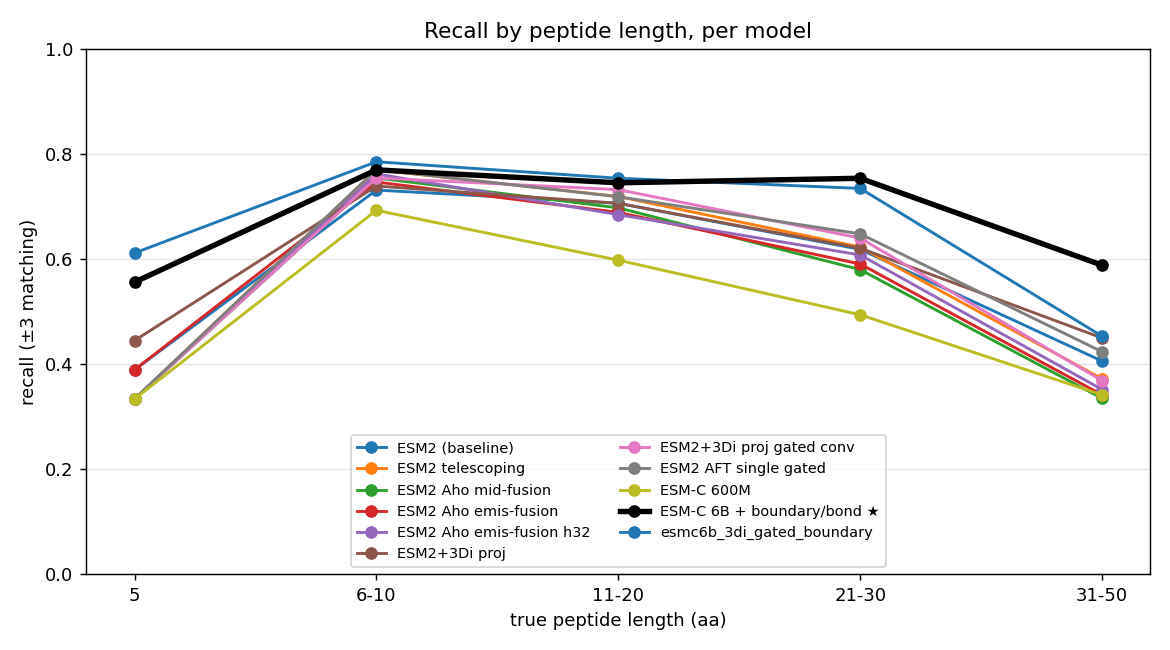
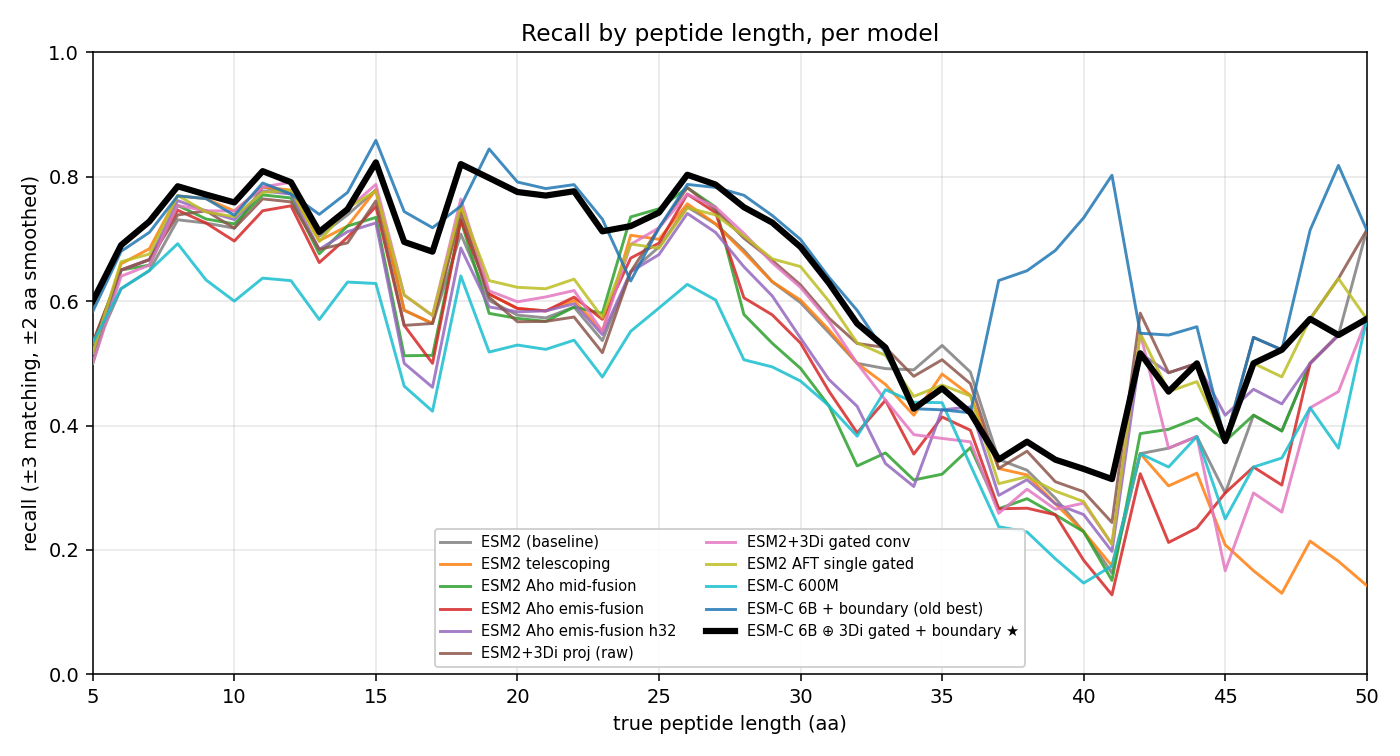
Fill new±3 for the 4 N/A runs; add 3Di winner to sweep; redo recall figures
- corrected_metrics now covers the 4 previously-N/A runs (boundary_only, w3, lora_r4,
  3di_only — re-inferred; these load online ESM so were skipped before). Big table new±3
  no longer N/A for them.
- threshold_sweep includes esmc6b_3di_gated_boundary: it leads at EVERY window and most
  at the TIGHT ones (all@w0 0.519 vs old winner 0.462; propep@w0 0.458 vs 0.368) — 3Di
  sharpens cleavage localization, not just detection. reconcile |Δ|=0.
- recall-by-length figures redone: NEW winner (3Di) is the bold black line (was the old
  boundary winner); per-integer length 5-50 with ±2 smoothing (matches the stacked plot);
  distinct qualitative palette (no more two-blues clash; old winner now blue).

Changed region(s): [[0.0, 0.0308, 0.9846, 0.9846]]

diff --git a/analysis/errors/src/plot_recall_by_length_models.py b/analysis/errors/src/plot_recall_by_length_models.py
@@ -27,7 +27,7 @@ FIG = ROOT / "texs" / "error_analysis" / "figures"
 FIG.mkdir(parents=True, exist_ok=True)
 
 LEN_LABELS = ["5", "6-10", "11-20", "21-30", "31-50"]
-BINS = {"5": (5, 5), "6-10": (6, 10), "11-20": (11, 20), "21-30": (21, 30), "31-50": (31, 50)}
+LMIN, LMAX, WIN = 5, 50, 2  # per-integer length range + ±WIN smoothing (as in the stacked plot)
 
 # Short display labels; runs without an entry fall back to the folder name.
 LABELS = {
@@ -36,28 +36,49 @@ LABELS = {
     "esm2_aho_mid_fusion_raw_m64": "ESM2 Aho mid-fusion",
     "esm2_aho_emission_fusion": "ESM2 Aho emis-fusion",
     "esm2_aho_emission_fusion_h32": "ESM2 Aho emis-fusion h32",
-    "train_run_esm2+3di_proj": "ESM2+3Di proj",
-    "train_run_esm2+3di_proj_gated_conv": "ESM2+3Di proj gated conv",
+    "train_run_esm2+3di_proj": "ESM2+3Di proj (raw)",
+    "train_run_esm2+3di_proj_gated_conv": "ESM2+3Di gated conv",
     "train_run_esm2_aft_single_gated": "ESM2 AFT single gated",
     "train_run_esmc_600m": "ESM-C 600M",
-    "esmc6b_boundary_bond": "ESM-C 6B + boundary/bond ★",
+    "esmc6b_boundary_bond": "ESM-C 6B + boundary (old best)",
+    "esmc6b_3di_gated_boundary": "ESM-C 6B ⊕ 3Di gated + boundary ★",
 }
-# Draw winner (if present) bold/on top; keep a stable order for the rest.
+WINNER = "esmc6b_3di_gated_boundary"   # the NEW best — drawn bold black
+# Draw winner last/on top; keep a stable order for the rest.
 ORDER = list(LABELS.keys())
 
+# Distinct qualitative colors (tab20-ish), explicitly avoiding two similar blues.
+PALETTE = {
+    "train_run_esm2": "#7f7f7f",                       # grey baseline
+    "esm2_telescoping_segmental": "#ff7f0e",           # orange
+    "esm2_aho_mid_fusion_raw_m64": "#2ca02c",          # green
+    "esm2_aho_emission_fusion": "#d62728",             # red
+    "esm2_aho_emission_fusion_h32": "#9467bd",         # purple
+    "train_run_esm2+3di_proj": "#8c564b",              # brown
+    "train_run_esm2+3di_proj_gated_conv": "#e377c2",   # pink
+    "train_run_esm2_aft_single_gated": "#bcbd22",      # olive
+    "train_run_esmc_600m": "#17becf",                  # cyan
+    "esmc6b_boundary_bond": "#1f77b4",                 # blue (old best)
+}
 
-def lenbin(L):
-    for lab, (lo, hi) in BINS.items():
-        if lo <= L <= hi:
-            return lab
-    return None
 
-
-def recall_by_bin(df, task):
-    t = df[(df["kind"] == "true") & (df["task"] == task)].copy()
-    t["lenbin"] = t["length"].apply(lenbin)
-    return [t[t["lenbin"] == lab]["matched"].mean() if len(t[t["lenbin"] == lab]) else np.nan
-            for lab in LEN_LABELS]
+def recall_smoothed(df, task):
+    """Per-integer recall over lengths 5..50, count-weighted ±WIN smoothing
+    (same convention as the stacked plot): recall(L) = Σmatched[L-WIN..L+WIN]/Σn[..].
+    Returns (xs, recall array, total-n array)."""
+    t = df[(df["kind"] == "true") & (df["task"] == task)]
+    xs = np.arange(LMIN, LMAX + 1)
+    matched = np.zeros(len(xs)); n = np.zeros(len(xs))
+    for k, L in enumerate(xs):
+        sub = t[t["length"] == L]
+        n[k] = len(sub); matched[k] = sub["matched"].sum()
+    rec = np.full(len(xs), np.nan)
+    for k in range(len(xs)):
+        lo, hi = max(0, k - WIN), min(len(xs), k + WIN + 1)
+        tot = n[lo:hi].sum()
+        if tot > 0:
+            rec[k] = matched[lo:hi].sum() / tot
+    return xs, rec, n
 
 
 # task -> (output filename, title noun)
@@ -68,28 +89,31 @@ TASK_OUT = {
 
 
 def plot_task(task, dframes):
-    runs = {run: recall_by_bin(df, task) for run, df in dframes.items()}
-    ordered = [r for r in ORDER if r in runs] + [r for r in runs if r not in ORDER]
-    x = np.arange(len(LEN_LABELS))
-    fig, ax = plt.subplots(figsize=(9, 5))
-    cmap = plt.get_cmap("tab10")
+    ordered = [r for r in ORDER if r in dframes] + [r for r in dframes if r not in ORDER]
+    fig, ax = plt.subplots(figsize=(10, 5.4))
     print(f"=== {task} ===")
-    for i, run in enumerate(ordered):
-        winner = run == "esmc6b_boundary_bond"
-        ax.plot(x, runs[run], marker="o",
-                lw=3.0 if winner else 1.6, zorder=5 if winner else 2,
-                color="black" if winner else cmap(i % 10),
+    for run in ordered:
+        xs, rec, _ = recall_smoothed(dframes[run], task)
+        is_win = run == WINNER
+        ax.plot(xs, rec,
+                lw=3.2 if is_win else 1.5,
+                zorder=10 if is_win else 3,
+                color="black" if is_win else PALETTE.get(run, "#999999"),
+                alpha=1.0 if is_win else 0.85,
                 label=LABELS.get(run, run))
-        print(f"{run:42s} " + "  ".join(f"{lab}={v:.3f}" if not np.isnan(v) else f"{lab}=nan"
-                                        for lab, v in zip(LEN_LABELS, runs[run])))
+        # sparse coarse-bin print for the log
+        def at(lo, hi):
+            t = dframes[run]; s = t[(t.kind == "true") & (t.task == task) & (t.length >= lo) & (t.length <= hi)]
+            return f"{s.matched.mean():.3f}" if len(s) else "nan"
+        print(f"{run:42s} 5={at(5,5)} 6-10={at(6,10)} 11-20={at(11,20)} 21-30={at(21,30)} 31-50={at(31,50)}")
     fname, noun = TASK_OUT[task]
-    ax.set_xticks(x); ax.set_xticklabels(LEN_LABELS)
-    ax.set_xlabel(f"true {noun} length (aa)"); ax.set_ylabel("recall (±3 matching)")
-    ax.set_title(f"Recall by {noun} length, per model"); ax.set_ylim(0, 1)
-    ax.grid(axis="y", alpha=.3); ax.legend(fontsize=8, ncol=2, loc="lower center")
+    ax.set_xlim(LMIN, LMAX); ax.set_ylim(0, 1)
+    ax.set_xlabel(f"true {noun} length (aa)"); ax.set_ylabel("recall (±3 matching, ±2 aa smoothed)")
+    ax.set_title(f"Recall by {noun} length, per model")
+    ax.grid(alpha=.3); ax.legend(fontsize=7.5, ncol=2, loc="lower center", framealpha=.9)
     fig.tight_layout()
     out = FIG / fname
-    fig.savefig(out, dpi=130); plt.close(fig)
+    fig.savefig(out, dpi=140); plt.close(fig)
     print(f"wrote {out}  ({len(ordered)} models)\n")
 
 

diff --git a/analysis/errors/src/threshold_sweep.py b/analysis/errors/src/threshold_sweep.py
@@ -47,6 +47,7 @@ MODELS = {
     "esmc6b_boundary_bond": "ESM-C 6B + boundary/bond ★",
     "esmc6b_telescoping": "ESM-C 6B + telescoping",
     "train_run_esm2+3di_proj_gated_conv": "ESM2 + 3Di (proj gated conv)",
+    "esmc6b_3di_gated_boundary": "ESM-C 6B ⊕ 3Di gated + boundary ★new",
 }
 WINDOWS = [0, 1, 2, 3, 4, 5]
 

diff --git a/analysis/metrics/big_metrics_table.md b/analysis/metrics/big_metrics_table.md
@@ -32,8 +32,8 @@ P/R/F1, но невосстановимой для инференса модел
 | AFTK только single, без фильтра | 0.331 | 0.332 | 0.567 | 0.567 | 0.233 | 0.235 | 0.531 | 0.939 |
 | ESM-C (600M) | 0.568 | 0.577 | 0.633 | 0.638 | 0.516 | 0.527 | 0.713 | 0.954 |
 | ESM-C 6B | 0.579 | 0.599 | 0.570 | 0.580 | 0.590 | 0.618 | 0.758 | 0.968 |
-| ESM-C 6B + boundary-голова (без bond) | 0.659 | N/A | 0.742 | N/A | 0.593 | N/A | 0.757 | 0.968 |
-| ESM-C 6B + boundary-голова, окно W3 (без bond) | 0.635 | N/A | 0.692 | N/A | 0.586 | N/A | 0.750 | 0.970 |
+| ESM-C 6B + boundary-голова (без bond) | 0.659 | 0.671 | 0.742 | 0.746 | 0.593 | 0.609 | 0.757 | 0.968 |
+| ESM-C 6B + boundary-голова, окно W3 (без bond) | 0.635 | 0.654 | 0.692 | 0.700 | 0.586 | 0.613 | 0.750 | 0.970 |
 | ESM-C 6B + boundary/bond  ★ лучший | 0.657 | 0.675 | 0.714 | 0.722 | 0.608 | 0.634 | 0.765 | 0.968 |
 | ESM-C 6B + телескопический сегментный CRF | 0.601 | 0.617 | 0.620 | 0.629 | 0.582 | 0.606 | 0.747 | 0.961 |
 | ESM-C 6B ⊕ 3Di gated + boundary | 0.676 | 0.692 | 0.731 | 0.738 | 0.628 | 0.651 | 0.746 | 0.961 |
@@ -57,7 +57,7 @@ P/R/F1, но невосстановимой для инференса модел
 | ESM2 + многомасштабный проектор (multiscale) | 0.567 | 0.587 | 0.587 | 0.598 | 0.548 | 0.577 | 0.721 | 0.951 |
 | ESM2 + телескопический сегментный CRF | 0.596 | 0.614 | 0.632 | 0.641 | 0.564 | 0.589 | 0.731 | 0.949 |
 | ESM2 + только boundary-голова (scale 10) | 0.597 | 0.617 | 0.697 | 0.706 | 0.522 | 0.548 | 0.739 | 0.971 |
-| ESM2 LoRA (rank4, last2 q/v) + boundary/bond | 0.555 | N/A | 0.650 | N/A | 0.484 | N/A | 0.702 | 0.958 |
+| ESM2 LoRA (rank4, last2 q/v) + boundary/bond | 0.555 | 0.567 | 0.650 | 0.655 | 0.484 | 0.500 | 0.702 | 0.958 |
 | ESM2 LoRA (rank8, last4 q/v) + boundary/bond | 0.543 | 0.558 | 0.600 | 0.608 | 0.496 | 0.515 | 0.703 | 0.941 |
 | ESM2 на датасете uniprot_2026 | 0.501 | 0.512 | 0.741 | 0.744 | 0.378 | 0.390 | 0.609 | 0.927 |
 | ESM2 с AdamW (60 эпох) | 0.560 | 0.573 | 0.602 | 0.609 | 0.524 | 0.540 | 0.729 | 0.962 |
@@ -73,7 +73,7 @@ P/R/F1, но невосстановимой для инференса модел
 | Масштабирование данных: 75% train (старая серия) | 0.559 | 0.577 | 0.588 | 0.599 | 0.532 | 0.557 | 0.740 | 0.961 |
 | Масштабирование данных: 80% train | 0.519 | 0.534 | 0.570 | 0.579 | 0.477 | 0.495 | 0.688 | 0.945 |
 | Масштабирование данных: 90% train | 0.565 | 0.579 | 0.603 | 0.611 | 0.532 | 0.550 | 0.724 | 0.951 |
-| Только 3Di (структура, без ESM) | 0.061 | N/A | 0.173 | N/A | 0.037 | N/A | 0.346 | 0.905 |
+| Только 3Di (структура, без ESM) | 0.061 | 0.062 | 0.173 | 0.173 | 0.037 | 0.038 | 0.346 | 0.905 |
 
 ### Peptides
 
@@ -88,8 +88,8 @@ P/R/F1, но невосстановимой для инференса модел
 | AFTK только single, без фильтра | 0.312 | 0.316 | 0.523 | 0.523 | 0.223 | 0.226 | 0.468 | 0.934 |
 | ESM-C (600M) | 0.535 | 0.547 | 0.605 | 0.611 | 0.480 | 0.495 | 0.629 | 0.958 |
 | ESM-C 6B | 0.562 | 0.586 | 0.526 | 0.539 | 0.605 | 0.643 | 0.728 | 0.971 |
-| ESM-C 6B + boundary-голова (без bond) | 0.662 | N/A | 0.728 | N/A | 0.607 | N/A | 0.732 | 0.977 |
-| ESM-C 6B + boundary-голова, окно W3 (без bond) | 0.594 | N/A | 0.628 | N/A | 0.562 | N/A | 0.690 | 0.973 |
+| ESM-C 6B + boundary-голова (без bond) | 0.662 | 0.683 | 0.728 | 0.735 | 0.607 | 0.637 | 0.732 | 0.977 |
+| ESM-C 6B + boundary-голова, окно W3 (без bond) | 0.594 | 0.627 | 0.628 | 0.645 | 0.562 | 0.611 | 0.690 | 0.973 |
 | ESM-C 6B + boundary/bond  ★ лучший | 0.656 | 0.690 | 0.658 | 0.674 | 0.653 | 0.707 | 0.730 | 0.979 |
 | ESM-C 6B + телескопический сегментный CRF | 0.591 | 0.611 | 0.633 | 0.642 | 0.555 | 0.583 | 0.700 | 0.965 |
 | ESM-C 6B ⊕ 3Di gated + boundary | 0.667 | 0.686 | 0.696 | 0.704 | 0.640 | 0.669 | 0.709 | 0.970 |
@@ -113,7 +113,7 @@ P/R/F1, но невосстановимой для инференса модел
 | ESM2 + многомасштабный проектор (multiscale) | 0.550 | 0.580 | 0.552 | 0.568 | 0.549 | 0.592 | 0.653 | 0.955 |
 | ESM2 + телескопический сегментный CRF | 0.614 | 0.632 | 0.675 | 0.683 | 0.562 | 0.589 | 0.679 | 0.958 |
 | ESM2 + только boundary-голова (scale 10) | 0.591 | 0.628 | 0.649 | 0.668 | 0.542 | 0.593 | 0.664 | 0.976 |
-| ESM2 LoRA (rank4, last2 q/v) + boundary/bond | 0.525 | N/A | 0.604 | N/A | 0.464 | N/A | 0.648 | 0.958 |
+| ESM2 LoRA (rank4, last2 q/v) + boundary/bond | 0.525 | 0.545 | 0.604 | 0.612 | 0.464 | 0.492 | 0.648 | 0.958 |
 | ESM2 LoRA (rank8, last4 q/v) + boundary/bond | 0.496 | 0.514 | 0.585 | 0.595 | 0.431 | 0.452 | 0.589 | 0.932 |
 | ESM2 на датасете uniprot_2026 | 0.491 | 0.508 | 0.762 | 0.765 | 0.362 | 0.381 | 0.587 | 0.905 |
 | ESM2 с AdamW (60 эпох) | 0.541 | 0.559 | 0.560 | 0.571 | 0.524 | 0.549 | 0.687 | 0.968 |
@@ -129,7 +129,7 @@ P/R/F1, но невосстановимой для инференса модел
 | Масштабирование данных: 75% train (старая серия) | 0.599 | 0.620 | 0.635 | 0.646 | 0.567 | 0.596 | 0.719 | 0.973 |
 | Масштабирование данных: 80% train | 0.505 | 0.519 | 0.587 | 0.594 | 0.444 | 0.461 | 0.609 | 0.946 |
 | Масштабирование данных: 90% train | 0.578 | 0.593 | 0.624 | 0.631 | 0.539 | 0.558 | 0.684 | 0.952 |
-| Только 3Di (структура, без ESM) | 0.111 | N/A | 0.173 | N/A | 0.082 | N/A | 0.372 | 0.903 |
+| Только 3Di (структура, без ESM) | 0.111 | 0.112 | 0.173 | 0.173 | 0.082 | 0.083 | 0.372 | 0.903 |
 
 ### Propeptides
 
@@ -144,8 +144,8 @@ P/R/F1, но невосстановимой для инференса модел
 | AFTK только single, без фильтра | 0.346 | 0.346 | 0.605 | 0.605 | 0.242 | 0.243 | 0.525 | 0.945 |
 | ESM-C (600M) | 0.595 | 0.602 | 0.655 | 0.659 | 0.544 | 0.553 | 0.706 | 0.960 |
 | ESM-C 6B | 0.595 | 0.610 | 0.613 | 0.622 | 0.577 | 0.598 | 0.746 | 0.971 |
-| ESM-C 6B + boundary-голова (без bond) | 0.657 | N/A | 0.754 | N/A | 0.582 | N/A | 0.734 | 0.971 |
-| ESM-C 6B + boundary-голова, окно W3 (без bond) | 0.670 | N/A | 0.750 | N/A | 0.605 | N/A | 0.742 | 0.977 |
+| ESM-C 6B + boundary-голова (без bond) | 0.657 | 0.660 | 0.754 | 0.755 | 0.582 | 0.587 | 0.734 | 0.971 |
+| ESM-C 6B + boundary-голова, окно W3 (без bond) | 0.670 | 0.676 | 0.750 | 0.752 | 0.605 | 0.614 | 0.742 | 0.977 |
 | ESM-C 6B + boundary/bond  ★ лучший | 0.659 | 0.660 | 0.775 | 0.776 | 0.572 | 0.575 | 0.731 | 0.973 |
 | ESM-C 6B + телескопический сегментный CRF | 0.608 | 0.622 | 0.611 | 0.619 | 0.604 | 0.625 | 0.753 | 0.966 |
 | ESM-C 6B ⊕ 3Di gated + boundary | 0.684 | 0.697 | 0.765 | 0.770 | 0.618 | 0.637 | 0.758 | 0.963 |
@@ -169,7 +169,7 @@ P/R/F1, но невосстановимой для инференса модел
 | ESM2 + многомасштабный проектор (multiscale) | 0.581 | 0.594 | 0.620 | 0.627 | 0.547 | 0.564 | 0.681 | 0.954 |
 | ESM2 + телескопический сегментный CRF | 0.582 | 0.599 | 0.600 | 0.609 | 0.566 | 0.589 | 0.706 | 0.954 |
 | ESM2 + только boundary-голова (scale 10) | 0.603 | 0.607 | 0.746 | 0.747 | 0.506 | 0.510 | 0.697 | 0.969 |
-| ESM2 LoRA (rank4, last2 q/v) + boundary/bond | 0.580 | N/A | 0.691 | N/A | 0.500 | N/A | 0.715 | 0.964 |
+| ESM2 LoRA (rank4, last2 q/v) + boundary/bond | 0.580 | 0.586 | 0.691 | 0.694 | 0.500 | 0.507 | 0.715 | 0.964 |
 | ESM2 LoRA (rank8, last4 q/v) + boundary/bond | 0.579 | 0.591 | 0.610 | 0.617 | 0.551 | 0.568 | 0.729 | 0.961 |
 | ESM2 на датасете uniprot_2026 | 0.510 | 0.514 | 0.724 | 0.727 | 0.393 | 0.398 | 0.603 | 0.948 |
 | ESM2 с AdamW (60 эпох) | 0.577 | 0.584 | 0.642 | 0.646 | 0.524 | 0.534 | 0.703 | 0.966 |
@@ -185,7 +185,7 @@ P/R/F1, но невосстановимой для инференса модел
 | Масштабирование данных: 75% train (старая серия) | 0.527 | 0.544 | 0.551 | 0.562 | 0.505 | 0.527 | 0.690 | 0.955 |
 | Масштабирование данных: 80% train | 0.530 | 0.545 | 0.558 | 0.568 | 0.504 | 0.523 | 0.694 | 0.956 |
 | Масштабирование данных: 90% train | 0.554 | 0.568 | 0.587 | 0.594 | 0.526 | 0.543 | 0.710 | 0.959 |
-| Только 3Di (структура, без ESM) | 0.000 | N/A | 0.000 | N/A | 0.000 | N/A | N/A | 0.912 |
+| Только 3Di (структура, без ESM) | 0.000 | 0.000 | 0.000 | 0.000 | 0.000 | 0.000 | N/A | 0.912 |
 
 
 ---